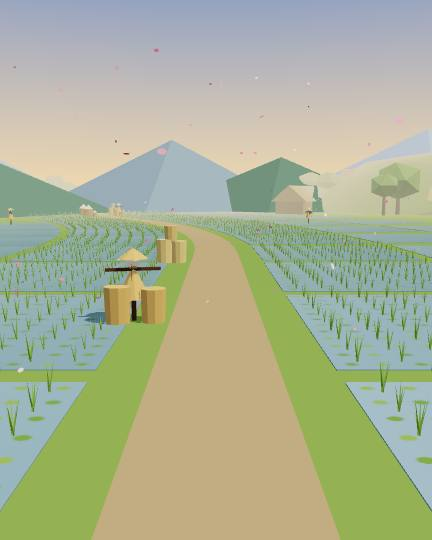
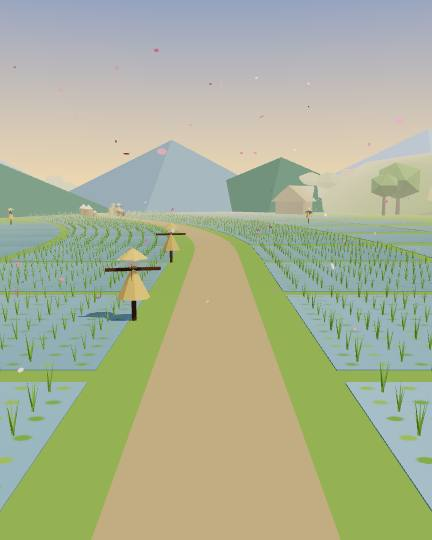
Districts: a scarecrow with a wheelbarrow in front, and one on its own that never hides a ninja

Changed region(s): [[0.2106, 0.5037, 0.3912, 0.6222], [0.3611, 0.4148, 0.4514, 0.5037], [0.2708, 0.3852, 0.3009, 0.4148]]

diff --git a/docs/design/screens.md b/docs/design/screens.md
@@ -89,8 +89,8 @@ In dev builds only, one button under the stages toggles them for the chosen quiz
 
   | District | Covers |
   | --- | --- |
-  | Rice fields, village edge | a basket heaped with rice, a scarecrow in a straw coat, straw bales |
-  | Rice fields, open paddies | straw bales, a scarecrow |
+  | Rice fields, village edge | a basket heaped with rice, a scarecrow in a straw coat with a wheelbarrow of straw in front, straw bales; a scarecrow on its own, which a ninja never comes from |
+  | Rice fields, open paddies | straw bales, a scarecrow with a wheelbarrow; a scarecrow on its own, never a ninja's |
   | Rice fields, irrigation ponds | a water wheel by its channel, straw bales |
   | Rice fields, shrine grove | a tall stone lantern, boulders |
   | Bamboo forest, deep grove | bundles of cut bamboo, boulders, now and then a panda eating bamboo (a ninja comes from behind one even more rarely) |
